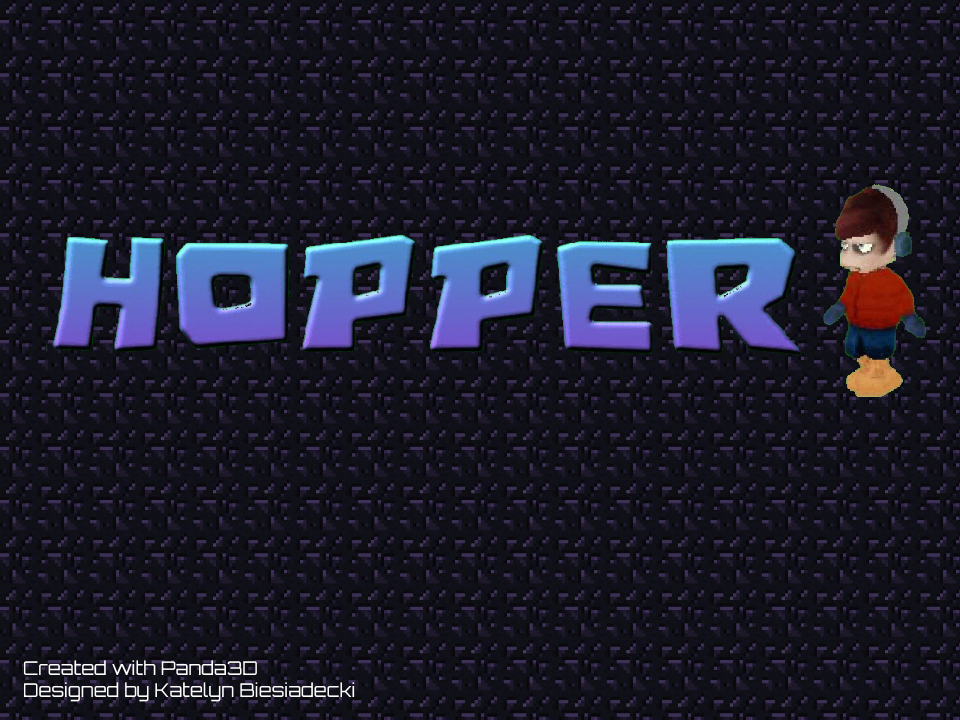
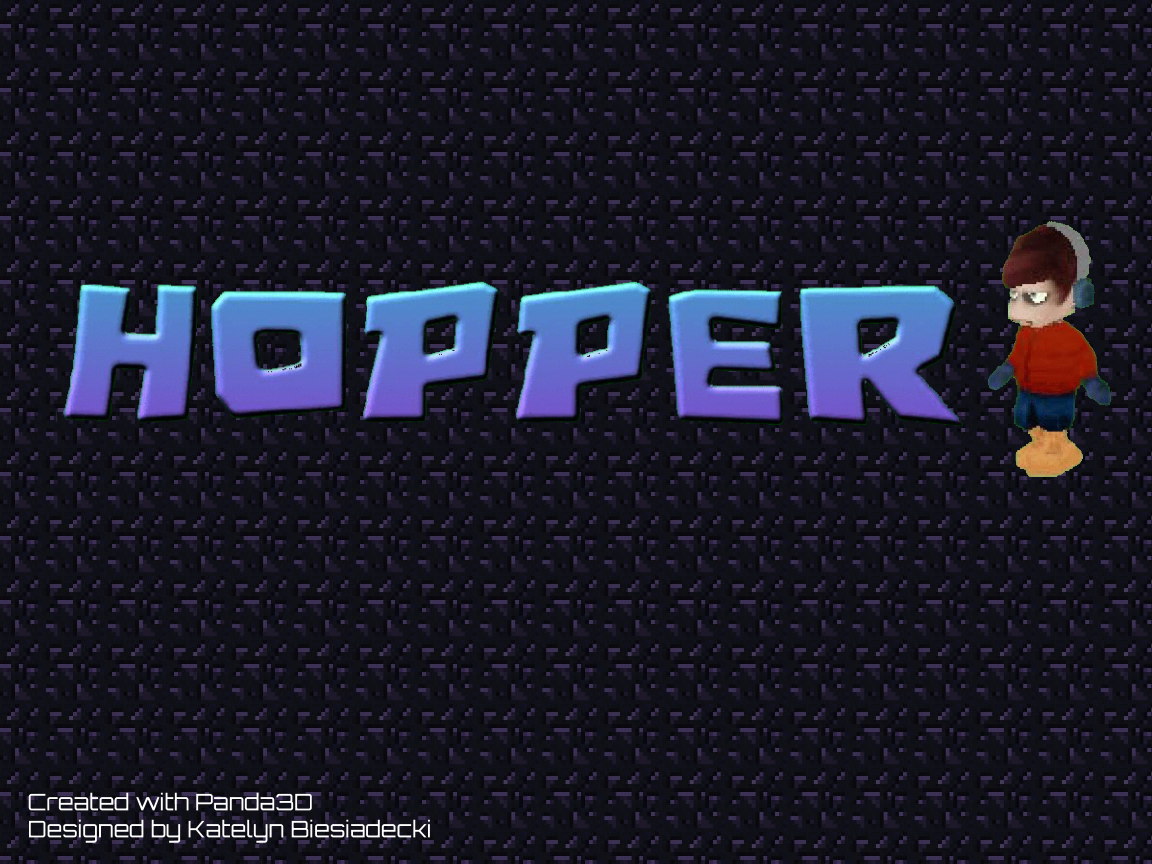
Updated UI

Changed region(s): [[0.0312, 0.9167, 0.375, 0.9778]]

diff --git a/main.py b/main.py
@@ -38,6 +38,7 @@ from coin import Coin
 from level1World import Level1World
 from level2World import Level2World
 from onscreenInterface import OnscreenInterface
+
 class PlayHopper(ShowBase):
 	def __init__(self):
 		ShowBase.__init__(self)
@@ -67,15 +68,26 @@ class PlayHopper(ShowBase):
 		#----- Start Screen -----
 		self.ui = OnscreenInterface()
 		self.ui.createStartScreen()
+		self.startBtn = self.ui.startButton()	
+		self.startBtn.configure(command = self.levelSelect)
+		self.buttonMap.append(self.startBtn)
+
 		#----- Level Select -----
 		self.level = 0
-	 	self.b = DirectButton(text = ("Level 1", "Level 1", "Level 1", "disabled"), scale = .08, pos = (0, 0, -0.3) , command = self.setup, extraArgs = [1])
-		self.b.resetFrameSize()
-	 	self.b2 = DirectButton(text = ("Level 2", "Level 2", "Level 2", "disabled"), scale = .08, pos = (0, 0, -0.5) , command = self.setup, extraArgs = [2])
-		self.b2.resetFrameSize()
+	
+	def levelSelect(self):
+		self.destroyButtons()
+		self.ui.destroyStartScreen()
+		self.ui.createLevelSelectScreen()
+	 	self.lev1 = self.ui.levelSelectButton(1, -0.6)
+		self.lev1.configure(command = self.setup, extraArgs = [1])
+		self.lev1.resetFrameSize()
+	 	self.lev2 = self.ui.levelSelectButton(2, 0.55)
+		self.lev2.configure(command = self.setup, extraArgs = [2])
+		self.lev2.resetFrameSize()
 
-		self.buttonMap.append(self.b)
-		self.buttonMap.append(self.b2)
+		self.buttonMap.append(self.lev1)
+		self.buttonMap.append(self.lev2)
 
 	#----- Hopper Functions -----
 	def fatigue(self, task):
@@ -132,9 +144,8 @@ class PlayHopper(ShowBase):
 		self.accept('b', self.toggleDebug)
 
 	def setup(self, level):
-		self.ui.destroyStartScreen()
-		for button in self.buttonMap:
-			button.destroy()
+		self.destroyButtons()
+		self.ui.destroyLevelSelectScreen()
 		#----- Controls -----
 		self.addControls()
 		#----- Setup World -----
@@ -251,13 +262,6 @@ class PlayHopper(ShowBase):
 
 		self.buttonMap.append(self.q)
 		self.buttonMap.append(self.b)
-	 	self.b1 = DirectButton(text = ("Level 1", "Level 1", "Level 1", "disabled"), scale = .08, pos = (0, 0, -0.3) , command = self.changeWorld, extraArgs = [1])
-		self.b1.resetFrameSize()
-	 	self.b2 = DirectButton(text = ("Level 2", "Level 2", "Level 2", "disabled"), scale = .08, pos = (0, 0, -0.5) , command = self.changeWorld, extraArgs = [2])
-		self.b2.resetFrameSize()
-
-		self.buttonMap.append(self.b1)
-		self.buttonMap.append(self.b2)
 	
 	def resetHopper(self):
 		self.hopper.hopperNP.setPos(8, 10, 1)
@@ -276,13 +280,6 @@ class PlayHopper(ShowBase):
 		self.c.resetFrameSize()
 
 		self.buttonMap.append(self.c)
-	 	self.b = DirectButton(text = ("Level 1", "Level 1", "Level 1", "disabled"), scale = .08, pos = (0, 0, -0.3) , command = self.changeWorld, extraArgs = [1])
-		self.b.resetFrameSize()
-	 	self.b2 = DirectButton(text = ("Level 2", "Level 2", "Level 2", "disabled"), scale = .08, pos = (0, 0, -0.5) , command = self.changeWorld, extraArgs = [2])
-		self.b2.resetFrameSize()
-
-		self.buttonMap.append(self.b)
-		self.buttonMap.append(self.b2)
 	
 	def quit(self):
 		sys.exit()	
@@ -347,6 +344,9 @@ class PlayHopper(ShowBase):
 			self.world.destroyLight()
 			self.isLit = False
 
+	def destroyButtons(self):
+		for button in self.buttonMap:
+			button.destroy()
 game = PlayHopper()
 game.run()
 

diff --git a/onscreenInterface.py b/onscreenInterface.py
@@ -31,3 +31,17 @@ class OnscreenInterface():
 
 	def destroyStartScreen(self):
 		self.startScreen.destroy()
+	
+	def startButton(self):
+		#maps = loader.loadModel('maps/button_maps')
+		return DirectButton(text = ("Start", "Start", "Start", "disabled"), scale = .18, pos = (0, 0, -0.3))#, geom = (maps.find('**/button_ready'), maps.find('**/button_click'), maps.find('**/button_rollover'), maps.find('**/button_disabled')))
+
+	def createLevelSelectScreen(self):
+		self.levelSelectScreen = OnscreenImage(image = "images/levelSelect.png", pos = (0, 0, 0), scale = (1.35, 1, 1))
+
+	def destroyLevelSelectScreen(self):
+		self.levelSelectScreen.destroy()
+		
+	def levelSelectButton(self, level, pos):
+	 	return DirectButton(text = ("Level "+str(level), "Level "+str(level), "Level "+str(level), "disabled"), scale = .09, pos = (pos, 0, -0.6))
+			
